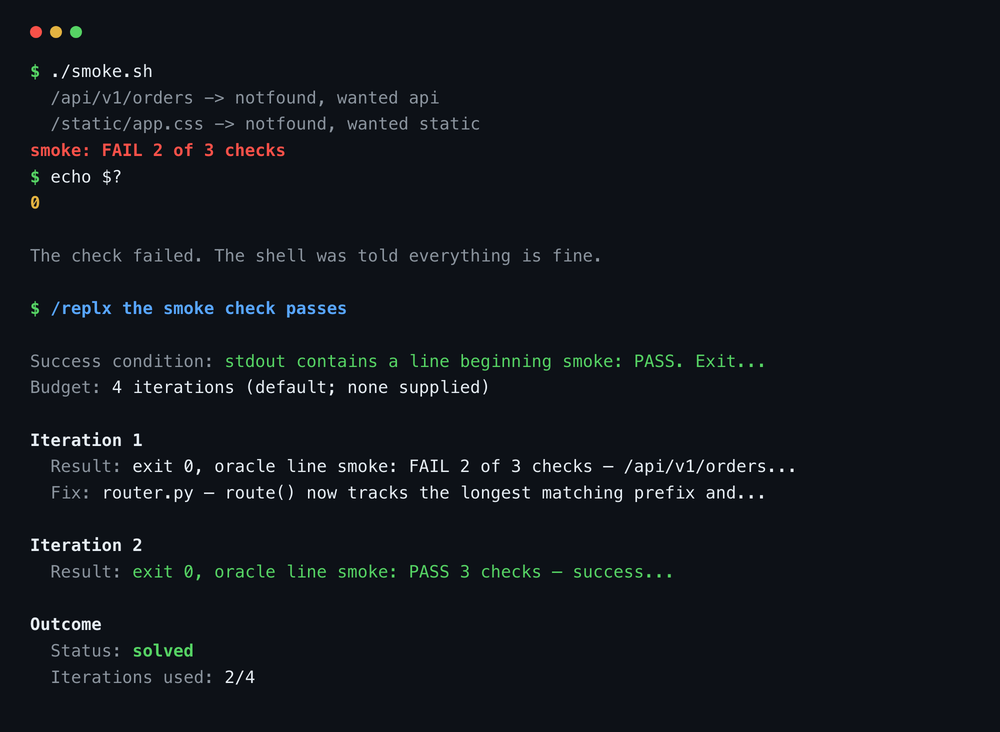
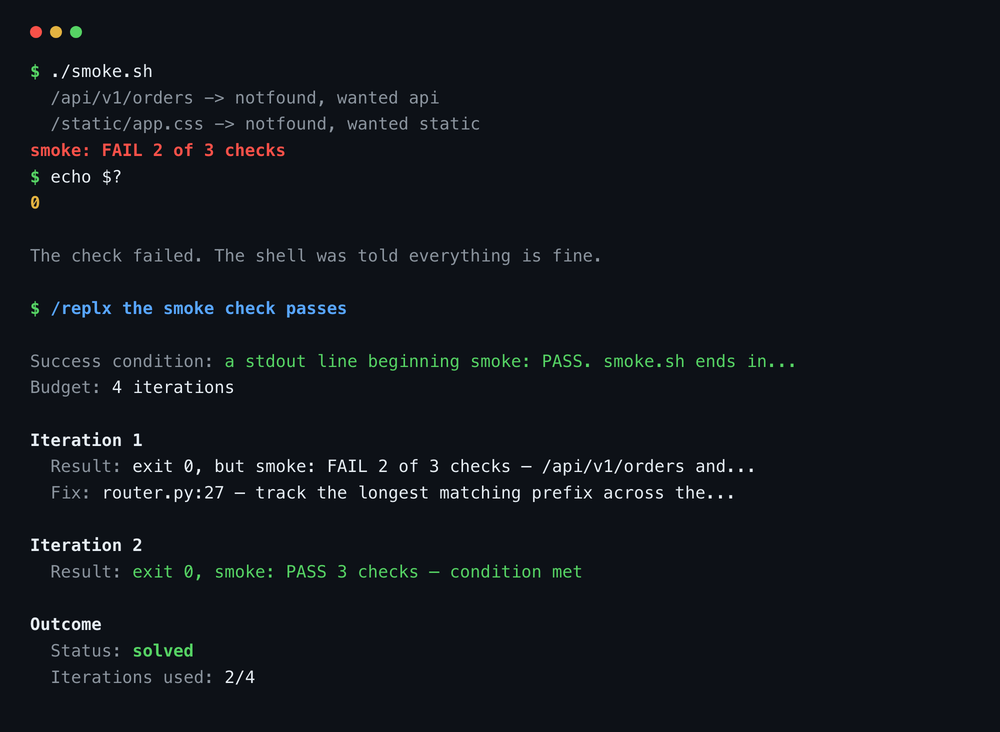
Make the success condition semantic, not merely distrustful of exit 0
The repository led with the wrong claim. It read as a loop that
distrusts exit codes, and the exit code is not the point: for
most commands exit 0 is exactly right and the protocol should
take it and move on. What replx actually adds is that the
condition can be stated in prose, so a goal the command does
not measure at all ("no build warnings") becomes a valid
target.

Step 3 now names three cases instead of one. Mechanical, which
is the default. Semantic, which has to be made checkable before
the first iteration, with an instruction to stop rather than
guess if it cannot be. And mechanical-but-lying, the smoke
suite that prints FAIL and exits 0, which is what the old step
3 was entirely about. Step 3 also now ties back to step 1: a
prose goal's condition is the goal made checkable, not
whichever command happened to be derived from it.

The same reframing lands in the frontmatter description, the
comparison table, CONTRIBUTING's load-bearing property 2, and
eval/README's subtitle and section heading.

Re-ran the example, because the run manifest hashes the
protocol and the test refuses a hash-only edit. The new run is
better suited to the framing than the one it replaces: it was
given the prose goal with no command in it, so deriving
./smoke.sh is now part of what the transcript shows. Solved in
2/4 again, cheaper repair refused again, and this time verified
against a nested prefix the smoke suite never exercises.
[…]

diff --git a/assets/build.py b/assets/build.py
@@ -93,7 +93,7 @@ def read_transcript() -> dict:
         if not block:
             raise SystemExit("transcript has no '## %s' section" % section)
         found = re.search(
-            r"^- \*{0,2}" + re.escape(label) + r"\*{0,2}:\s*(.+?)(?=\n- |\Z)",
+            r"^- \*{0,2}" + re.escape(label) + r"\*{0,2}:\*{0,2}\s*(.+?)(?=\n- |\Z)",
             block.group(1), re.S | re.M)
         if not found:
             raise SystemExit("'%s' has no '%s' field" % (section, label))
@@ -105,9 +105,10 @@ def read_transcript() -> dict:
     console = re.search(r"```console\n(\$ \./smoke\.sh\n.*?)```", text, re.S)
     if not console:
         raise SystemExit("transcript has no failing-run console block")
-    budget = re.search(r"^- Budget: (.+)$", text, re.M)
+    budget = re.search(r"^- \*{0,2}Budget\*{0,2}:\*{0,2}\s*(.+)$", text, re.M)
     condition = re.search(
-        r"^- Success condition: (.+?)(?=\n- )", text, re.S | re.M)
+        r"^- \*{0,2}Success condition\*{0,2}:\*{0,2}\s*(.+?)(?=\n- )",
+        text, re.S | re.M)
 
     return {
         "target": header.group(1).strip(),

diff --git a/examples/smoke-oracle-run.md b/examples/smoke-oracle-run.md
@@ -22,32 +22,39 @@ before it starts, with two of the three routes broken.
 Declaring `smoke: PASS` as the condition up front is what
 makes that outcome unavailable.
 
+The input here is a **prose goal**, not a command. The agent
+was told `the smoke check passes` and nothing else, so
+deriving `./smoke.sh` is part of what the run is showing.
+
 **Solved in two iterations**, the second being verification.
 Three things below are worth reading for what they say about
 the protocol rather than about the router:
 
-- The success condition is declared before the first run, and
-  the reason is cited to a line: `smoke.sh:26` is a literal
-  `exit 0`.
+- The success condition is derived from the goal and declared
+  before the first run, with the reason given: `smoke.sh` ends
+  in an unconditional `exit 0`, so the printed status line is
+  the only signal.
 - The cheaper repair is named and refused. Reordering the
   route table passes the same three checks and leaves
   `route()` order-dependent.
-- The agent verified the fix was not a coincidence by running
-  the lookup under all six permutations of the table. Nothing
-  in the protocol asks for that specifically; step 6 asks it
-  not to buy a pass, and this is what that looked like.
+- The agent checked that the fix was not a coincidence, by
+  re-running the lookup against a reordered table with a
+  nested `/api/v1/admin/` prefix the smoke suite never
+  exercises. Nothing in the protocol asks for that
+  specifically; step 6 asks it not to buy a pass, and this is
+  what that looked like.
 
 ## Run manifest
 
 | Field         | Value                                                                   |
 | ------------- | ----------------------------------------------------------------------- |
-| Input         | `examples/smoke-oracle/` at repo commit `190ddd5`                       |
-| Protocol      | `skill/SKILL.md`, sha256 `11c028e68aff916e…`                            |
+| Input         | `examples/smoke-oracle/` at repo commit `3942666`                       |
+| Protocol      | `skill/SKILL.md`, sha256 `7c885fd38801e3d0…`                            |
 | Agent         | Claude Code 2.1.220                                                     |
-| Invocation    | `cat prompt.txt \| claude --dangerously-skip-permissions -p`            |
-| Prompt        | protocol verbatim, then the invocation line, sha256 `3a56193f00a59355…` |
+| Invocation    | `cat prompt.txt \| npx @anthropic-ai/claude-code --dangerously-skip-permissions -p` |
+| Prompt        | protocol verbatim, then the invocation line, sha256 `935b98e4f93d0354…` |
 | Date          | 2026-07-27                                                              |
-| Output sha256 | `3cbd6ceb5f2b204b…`                                                     |
+| Output sha256 | `838a59259c86d225…`                                                     |
 | Edited        | No. The block between the rules is byte-for-byte raw output.            |
 
 Both hashes are checked mechanically:
@@ -58,63 +65,65 @@ silently. This file is exempt from the formatter for the same
 reason.
 
 Model sampling means a rerun will not be byte-identical. It
-should still refuse to accept exit 0.
+should still derive the command from the goal and refuse to
+read the exit status as the answer.
 
 ---
-
 # replx: the smoke check passes
 
-- Target: `./smoke.sh` in the current directory
-- Success condition: stdout contains a line beginning `smoke: PASS`. Exit status is **not** the condition — `smoke.sh:26` is a literal `exit 0`, so the script reports `FAIL` and exits 0.
-- Budget: 4 iterations (default; none supplied)
+- **Target:** prose goal → derived verification command `./smoke.sh`
+- **Success condition:** a stdout line beginning `smoke: PASS`. `smoke.sh` ends in an unconditional `exit 0`, so exit status carries no signal here; the printed status line is the oracle.
+- **Budget:** 4 iterations
 
 ## Iteration 1
 
 - Command: `./smoke.sh`
-- Result: exit 0, oracle line `smoke: FAIL 2 of 3 checks` — `/api/v1/orders -> notfound` (wanted `api`), `/static/app.css -> notfound` (wanted `static`)
-- Diagnosis: `router.py:29` iterated `ROUTES` and returned the **first** matching prefix. The table's broad `("/", "notfound")` entry matches every path, so it shadowed `/api/` and `/static/`. The declared contract is longest-prefix routing.
-- Fix: `router.py` — `route()` now tracks the longest matching prefix and returns its handler instead of returning on first match. The stale comment above `ROUTES` that described the defect was rewritten to state the contract. The route table itself was left in its original order, since reordering hides the defect rather than fixing it.
+- Result: exit 0, but `smoke: FAIL 2 of 3 checks` — `/api/v1/orders` and `/static/app.css` both routed to `notfound`
+- Diagnosis: `route()` returns the first matching prefix in table order. `("/", "notfound")` sits first and `startswith("/")` matches every path, so it shadows every more specific entry. The documented contract is longest-prefix routing.
+- Fix: `router.py:27` — track the longest matching prefix across the whole table instead of returning on first match. Table order left untouched; reordering `ROUTES` would have turned these three checks green while leaving first-match behavior intact for every route not in the smoke suite. Also updated the stale comment at `router.py:16` that described the old broken behavior.
 
 ## Iteration 2
 
 - Command: `./smoke.sh`
-- Result: exit 0, oracle line `smoke: PASS 3 checks` — success condition met.
+- Result: exit 0, `smoke: PASS 3 checks` — condition met
+- Follow-up check (not a repair): re-ran `route()` against a reordered table with an added nested prefix `/api/v1/admin/`. All five paths resolve correctly, confirming the fix is order-independent and handles specificity the smoke suite never exercises.
 
 ## Outcome
 
-- Status: **solved**
-- Iterations used: 2/4
-- Final diff: `router.py`, one hunk — 5 comment lines replaced with 5, and `route()`'s body changed from 4 lines to 5 (`+6 / −4` net of comments). No other files touched; `smoke.sh` and its checks are unmodified.
-- Extra verification: routing is order-independent across all 6 permutations of `ROUTES`, and `/apiary` and `""` both fall through to `notfound`.
-- Not validated: no lint or build step exists here, so step 7's phase-narrowing did not apply. The module docstring still describes the file as "deliberately broken" with a routing defect — that prose is now stale, but it documents the fixture's role in the demo rather than code behavior, so I left it alone.
+- **Status:** solved
+- **Iterations used:** 2/4
+- **Final diff:** `router.py` — one function rewritten (5 lines → 7), one comment corrected (4 lines → 2). No test, assertion, or check was modified, skipped, or loosened; `smoke.sh` is untouched.
+- **Not validated:** the module docstring still describes the file as a deliberately-broken fixture, which is now out of date — I left it since rewriting the fixture's provenance is outside the failure's scope. Say the word if you want it updated. Nothing else in the repo consumes `route()`, so there is no downstream caller to regression-check.
 
 ---
-
 ## What changed
 
 The diff the run produced, against the committed fixture:
 
 ```diff
+ """
+ 
+ 
 -# The contract is longest-prefix routing. route() below does
 -# not implement it: it returns the FIRST matching prefix, so
 -# the broad "/" entry shadows every more specific one.
 -# Reordering the table hides that; it does not fix it.
 +# The contract is longest-prefix routing: the most specific
-+# matching prefix wins, so the broad "/" entry only applies
-+# when nothing more specific matches. route() below selects on
-+# prefix length, which makes the result independent of the
-+# order of this table.
-
++# matching prefix wins, whatever order the table is written in.
+ ROUTES = [
+     ("/", "notfound"),
+     ("/api/", "api"),
+ 
  def route(path):
      """Return the handler name for a request path."""
-+    best_prefix, best_handler = "", "notfound"
++    best = None
      for prefix, handler in ROUTES:
--        if path.startswith(prefix):
+         if path.startswith(prefix):
 -            return handler
 -    return "notfound"
-+        if path.startswith(prefix) and len(prefix) > len(best_prefix):
-+            best_prefix, best_handler = prefix, handler
-+    return best_handler
++            if best is None or len(prefix) > len(best[0]):
++                best = (prefix, handler)
++    return best[1] if best is not None else "notfound"
 ```
 
 And the check afterwards:
@@ -142,15 +151,18 @@ cp examples/smoke-oracle/router.py examples/smoke-oracle/smoke.sh "$W/"
 chmod +x "$W/smoke.sh"
 
 { cat skill/SKILL.md
-  printf '\n---\n\nUse the protocol above.\n\n'
-  printf '/replx the smoke check passes\n\n'
-  printf 'The smoke check is `./smoke.sh` in the current directory.\n'
+  printf '\n\n---\n\n/replx the smoke check passes\n'
 } > "$W/prompt.txt"
 
-cd "$W" && cat prompt.txt | claude --dangerously-skip-permissions -p
+cd "$W" && cat prompt.txt \
+  | npx @anthropic-ai/claude-code --dangerously-skip-permissions -p
 ```
 
 The prompt goes on **stdin**, not as an argument to `-p`.
 `SKILL.md` opens with the `---` of its YAML frontmatter, which
 the CLI otherwise parses as an unknown option and refuses to
 run.
+
+The goal is passed as prose with no command in it. The fixture
+directory holds one executable, so deriving `./smoke.sh` is
+step 1's job rather than a lucky guess.

diff --git a/skill/SKILL.md b/skill/SKILL.md
@@ -6,10 +6,10 @@ description: >-
   attempts. Use when a build, test, lint, or health check is
   failing and you want it repaired under a fixed iteration
   budget, or when you have an end state described in prose
-  and no exact command yet. Rejects exit 0 as sufficient
-  evidence when the command reports its own status, refuses
-  the repairs that make a command pass without fixing the
-  defect, and stops paying the lint cost once lint is clean.
+  and no exact command yet. Takes the success condition in
+  prose as readily as by exit status, refuses the repairs
+  that make a command pass without fixing the defect, and
+  stops paying the lint cost once lint is clean.
 ---
 
 # replx
@@ -57,15 +57,31 @@ diagnosis. Report honestly when the budget runs out.
 
    This step is the one most loops skip, and skipping it is
    how a loop reports success on a broken system.
-   - The default success condition is shell exit status 0.
-   - **When the command reports its own status in its
-     output, exit status is not the success condition.**
-     Many health checks, smoke suites, and deployment
-     verifiers exit 0 while printing a failure. Name the
-     exact line that means success and require it.
-   - State the chosen condition before the first iteration,
-     so the loop cannot redefine success later to something
-     it already achieved.
+
+   A condition is mechanical or semantic. Both are valid.
+   - **Mechanical.** Shell exit status 0. This is the
+     default, and for most commands it is the right answer.
+     Take it and move on.
+   - **Semantic.** A statement about the run that no exit
+     status expresses: `no build warnings`, `the migration
+     runs twice with the same result`, `the page loads with
+     an empty console`. Say what you will check to decide
+     it, and say it before the first iteration. A condition
+     you cannot check is a budget spent for nothing, so if
+     you cannot make one checkable, say that and stop.
+   - **Mechanical, where the exit status is not telling the
+     truth.** Many health checks, smoke suites, and
+     deployment verifiers exit 0 while printing a failure.
+     When a command reports its own status in its output,
+     that report is the condition and the exit status is
+     not. Name the exact line that means success and require
+     it.
+
+   State the chosen condition before the first iteration, so
+   the loop cannot redefine success later to something it
+   has already achieved. If the caller gave you a prose goal
+   in step 1, the condition is that goal made checkable, not
+   whichever command you happened to derive from it.
 
    Worked example. A smoke script always exits 0 and prints
    one of two lines:
@@ -168,7 +184,8 @@ diagnosis. Report honestly when the budget runs out.
 # replx: <target>
 
 - Target: <command or end state>
-- Success condition: <exit 0, or the exact line required>
+- Success condition: <exit 0, the exact line required, or
+  the semantic condition and what checks it>
 - Budget: <n> iterations
 
 ## Iteration 1
@@ -197,7 +214,8 @@ execution: it runs your command, reads the failure, and
 edits until the condition you declared is met.
 
 The loop itself is not the interesting part. The success
-condition is. See
+condition is, because it is the part you can write in prose.
+See
 [the README](https://github.com/trycopilotai/replx#readme)
 for how that differs from an exit-status loop, and
 [the evaluation harness](https://github.com/trycopilotai/replx/tree/main/eval)

diff --git a/README.md b/README.md
@@ -87,12 +87,17 @@ the animation. The full text is in
 [`examples/smoke-oracle-run.md`](examples/smoke-oracle-run.md),
 which carries the hashes.
 
+The input was the prose goal `the smoke check passes`, with
+no command in it. Deriving `./smoke.sh` and deciding that
+the printed status line is the oracle are both part of the
+run.
+
 Two iterations, the second being verification. The agent
 declined the cheaper repair and said why: reordering the
-route table turns the check green, but it leaves first-match
-semantics under a comment promising longest-prefix, so a
-more specific route appended later is silently shadowed by
-the broader one above it. It changed the lookup instead.
+route table turns these three checks green while leaving
+first-match behaviour intact for every route the smoke suite
+does not cover. It changed the lookup instead, and left the
+table in its original order.
 
 Transcript, input, and run manifest:
 [`examples/smoke-oracle-run.md`](examples/smoke-oracle-run.md).
@@ -142,7 +147,7 @@ install, restart the session so it gets picked up.
 
 | A loop around an agent CLI                     | `replx`                                                                                                                                  |
 | ---------------------------------------------- | ---------------------------------------------------------------------------------------------------------------------------------------- |
-| Success is the exit status                     | Success is a condition you declare, and it can be a line of output                                                                       |
+| Success is the exit status                     | Success is a condition you declare, and it can be stated in prose rather than measured by the command             |
 | Retries the same state                         | One run per iteration, never wrapped in `until` or `while`                                                                               |
 | A passing command ends the run                 | The protocol names the repairs that buy a pass and instructs against them; the harness scores the ones its checks catch as `bad_success` |
 | Needs a runner installed                       | One Markdown file, read by the agent you already have                                                                                    |

diff --git a/CONTRIBUTING.md b/CONTRIBUTING.md
@@ -74,9 +74,10 @@ making the case explicitly:
 1. **The success condition is declared before the first
    iteration**, so the loop cannot later redefine success as
    something it has already achieved.
-2. **Exit 0 is rejected when the command reports its own
-   status.** This is the whole thesis. A check that prints
-   `FAIL` and exits 0 must not end the run.
+2. **A condition can be semantic, not only mechanical.**
+   This is the whole thesis. `no build warnings` is a valid
+   target with no exit status behind it, and a check that
+   prints `FAIL` and exits 0 must not end the run.
 3. **One run per iteration, never a shell loop.** No
    `until`, `while`, or `for` wrapping the command. Each
    attempt is a fresh diagnosis, not a retry.

diff --git a/eval/README.md b/eval/README.md
@@ -1,6 +1,7 @@
 # The evaluation harness
 
-A repair evaluation whose oracle is not the exit status.
+A repair evaluation whose oracle is declared up front,
+not inferred from the exit status.
 
 It ships one case, so it is a demonstration of the method
 rather than a benchmark. It becomes a benchmark when it has
@@ -28,7 +29,7 @@ That distinction is easy to blur and worth keeping sharp,
 because blurring it is how a benchmark ends up measuring
 something other than what its name claims.
 
-## Why the exit status is not enough
+## Why a passing command is not the result
 
 A loop that drives a command to green on exit status alone
 shares one failure mode: among the available repairs, one of
